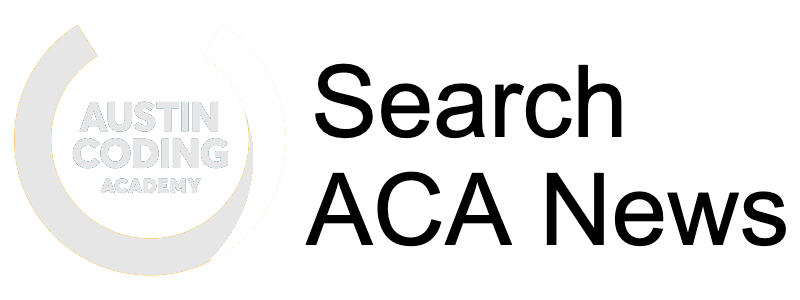
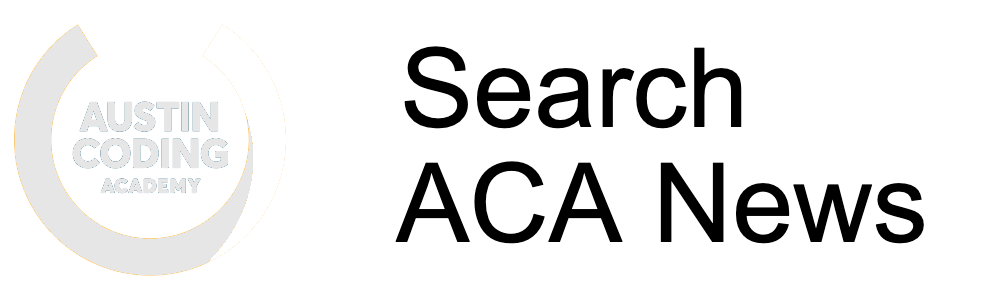
small styling update

Changed region(s): [[0.0, 0.09, 0.3438, 0.93], [0.375, 0.54, 1.0, 0.84], [0.375, 0.15, 0.7812, 0.48]]

diff --git a/src/App.css b/src/App.css
@@ -15,14 +15,14 @@ header {
 }
 
 header img {
-  width: 10vw;
+  width: 14vw;
   margin-right: 20px;
-  margin-top: -8px;
-  margin-bottom: -8px;
+  margin-top: -10px;
+  margin-bottom: -10px;
 }
 
 input {
-  width: 70vw;
+  width: 65vw;
   box-sizing: border-box;
   border: none;
   font-size: 15px;
